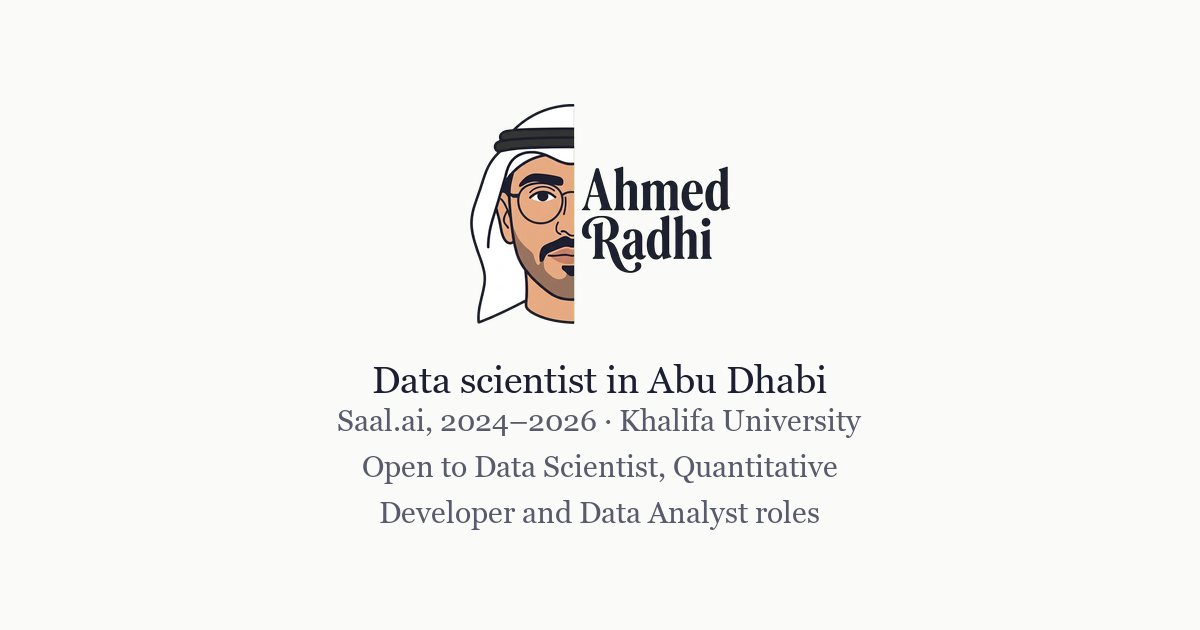
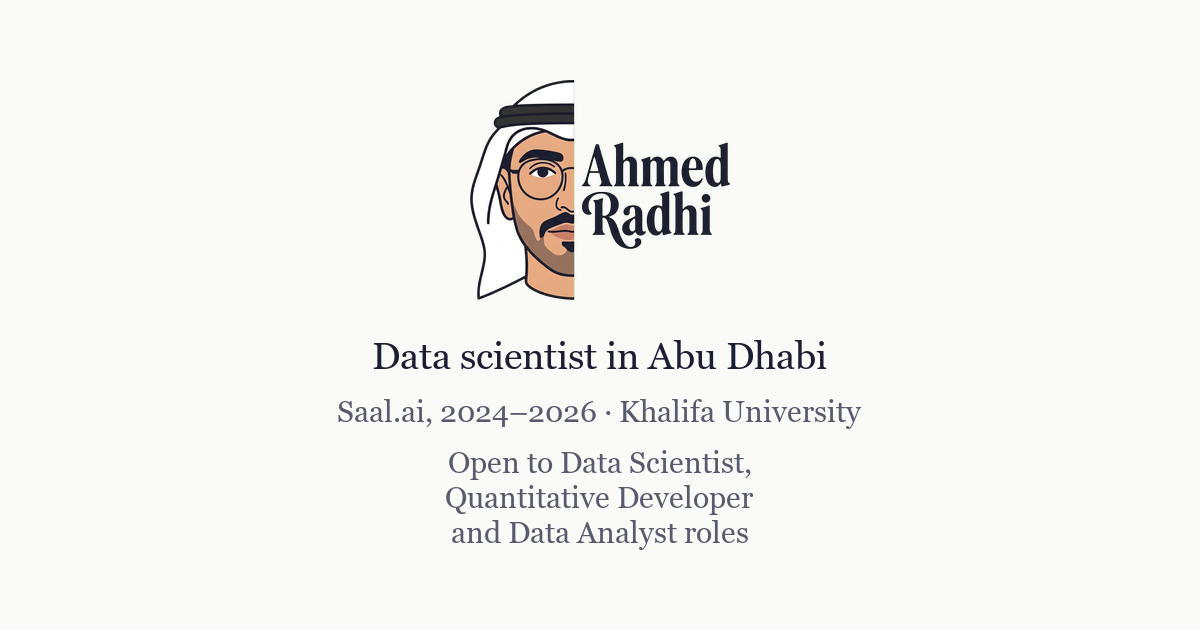
fix(share-card): stop breaking a role name across lines, and gate before saving
The greedy wrap filled the first line to the crop budget, which split the
card's most valuable sentence as "Open to Data Scientist, Quantitative /
Developer and Data Analyst roles". The card ships at a dated, hard-cached URL,
so that break was expensive to leave.

The wrap is now a small search rather than a greedy pass. A line may not end
between two capitalised words, because that pair is a name — "Quantitative
Developer", "Data Analyst" — and punctuation closes a name, so "Scientist,"
may end a line. Subject to that it takes the fewest lines the text fits in,
and among those the arrangement whose widest line is narrowest, because the
block is centred and even lines read as one set. Here that is 304 / 309 / 298
against a 550px budget, verified by cropping the PNG to the 630px square that
WhatsApp and iMessage show.

Leading came from each line's inked height, so the gap between two lines
depended on whether one of them happened to contain a descender. It now comes
from the font's line box, and the gap between card lines is separate from the
leading inside a wrapped one — a single constant made a wrapped sentence look
like three unrelated statements.

Both gates now run before anything is written. A run that judged the card
unshippable had already saved it twice with a matching sidecar, so the suite
went green on a card the generator had just condemned. Nothing checked the
vertical fit at all; a taller block now fails instead of drawing off both
edges.
[…]

Changed region(s): [[0.37, 0.1206, 0.6167, 0.5127], [0.2775, 0.5429, 0.7092, 0.6937], [0.2775, 0.7238, 0.7092, 0.8746]]

diff --git a/test/og-card.test.js b/test/og-card.test.js
@@ -28,11 +28,16 @@ const generator = read('tools/make_og_image.py');
 function expectedLines() {
   const company = experience.items[0].company;
   const roles = experience.items[0].roles;
+  const dated = (r) => /^\d{4}$/.test(r.endDate.slice(0, 4));
   const years = [...new Set([
     ...roles.map((r) => r.startDate.slice(0, 4)),
-    ...roles.map((r) => r.endDate.slice(0, 4)).filter((y) => /^\d{4}$/.test(y)),
+    ...roles.filter(dated).map((r) => r.endDate.slice(0, 4)),
   ])].sort();
-  const tenure = years.length > 1 ? `${years[0]}–${years[years.length - 1]}` : years[0];
+  // admin/schema.js advertises "Present" as a valid endDate. Without this the
+  // generator drew "Saal.ai, 2024" and this mirror agreed with it, so a card
+  // describing a year-long job would have passed.
+  const end = roles.every(dated) ? years[years.length - 1] : 'present';
+  const tenure = end === years[0] ? years[0] : `${years[0]}–${end}`;
   return [
     profile.role,
     `${company}, ${tenure} · ${education.items[0].institution}`,
@@ -54,7 +59,9 @@ test('every line the card draws says something checkable', () => {
   // The card used to read "Data pipelines, analysis, applied statistics" — three
   // capability nouns that would fit any data-science graduate, which is what
   // CLAUDE.md's fourth principle forbids.
-  assert.match(credentials, /\d{4}–\d{4}/, 'no date range on the card');
+  // A range, not a year: /\d{4}(–\d{4})?/ would have been satisfied by the
+  // bare "2024" the open-ended branch used to produce.
+  assert.match(credentials, /\d{4}–(\d{4}|present)/, 'no date range on the card');
   assert.ok(credentials.includes(education.items[0].institution), 'no institution on the card');
   assert.match(ask, /^Open to /, 'the card does not state what he is looking for');
   assert.ok(role.length > 0);
@@ -85,10 +92,43 @@ test('og:image and twitter:image agree, and both carry alt text', () => {
     const m = html.match(new RegExp(`<meta ${attr}="${name}" content="([^"]*)"`));
     assert.ok(m, `${name} is missing`);
     // Alt that restates og:title and og:description is worse than none for a
-    // screen-reader user, so it has to carry what the picture carries.
-    assert.ok(m[1].includes(experience.items[0].company), `${name} omits the employer the card shows`);
-    assert.ok(m[1].length > 60, `${name} is too thin to describe the card`);
+    // screen-reader user, so it has to carry what the picture carries. Checked
+    // line by line, not against the sidecar verbatim: the alt deliberately
+    // voices "2024 to 2026, and" where the card draws "2024–2026 ·". Without
+    // these three, a copy edit plus a regeneration left the alt describing the
+    // previous card with the whole suite green.
+    const alt = m[1];
+    assert.ok(alt.includes(experience.items[0].company), `${name} omits the employer the card shows`);
+    assert.ok(alt.includes(education.items[0].institution), `${name} omits the institution`);
+    assert.ok(alt.includes(profile.role), `${name} no longer says what the card says he is`);
+    assert.ok(alt.includes(profile.status.replace(/\.$/, '')), `${name} no longer carries the ask`);
+    assert.ok(alt.length > 60, `${name} is too thin to describe the card`);
   }
+});
+
+test('the shipped card is a real 1200x630 image, not a placeholder', () => {
+  // Everything above reads text. Two zero-byte PNGs passed the whole file, so
+  // nothing bound the tags to the picture they describe. The IHDR is four bytes
+  // of proof that a card was drawn at the size the meta tags promise.
+  const declared = (name) => Number(
+    html.match(new RegExp(`<meta property="${name}" content="(\\d+)"`))[1],
+  );
+  const buf = readFileSync(file('assets/og-image.png'));
+  assert.equal(buf.subarray(1, 4).toString('ascii'), 'PNG', 'the card is not a PNG');
+  assert.equal(buf.readUInt32BE(16), declared('og:image:width'), 'the card is not as wide as og:image:width claims');
+  assert.equal(buf.readUInt32BE(20), declared('og:image:height'), 'the card is not as tall as og:image:height claims');
+});
+
+test('the meta tags point at the filename the generator writes', () => {
+  // CARD_NAME is a frozen literal and og:image matches any og-image-*.png, so
+  // a bump in one and not the other produced "the legacy card is stale — rerun
+  // the generator", which is the wrong instruction for the actual fault.
+  const name = generator.match(/CARD_NAME = "([^"]+)"/);
+  assert.ok(name, 'the generator no longer names its output file');
+  assert.ok(
+    html.includes(`/assets/${name[1]}"`),
+    `the generator writes assets/${name[1]}, which index.html does not reference`,
+  );
 });
 
 test('the generator refuses a bitmap fallback instead of reporting success', () => {

diff --git a/tools/make_og_image.py b/tools/make_og_image.py
@@ -8,7 +8,7 @@ This is the first surface most readers see. PRODUCT.md says they arrive
 the image, og:title and the domain, then discards og:description entirely. So
 for the primary channel this PNG plus a dozen words of title IS the portfolio.
 
-Two rules follow from that, and both are load-bearing:
+Three rules follow from that, and all three are load-bearing:
 
 1. Every line has to say something checkable. The card used to read "Data
    scientist in Abu Dhabi" over "Data pipelines, analysis, applied statistics":
@@ -20,6 +20,10 @@ Two rules follow from that, and both are load-bearing:
    previews crop to a 630x630 square (x=285..915), so anything wider than about
    550px measured gets its ends cut off. The first draft anchored the block hard
    left and that crop removed the face entirely.
+
+3. Nothing ships that the run itself judged broken. The overflow check runs
+   before the PNGs are written, not after, so a card that fails the crop budget
+   leaves no file behind for the test suite to bless.
 
 The strings are read from data/*.json rather than held here, because a literal
 in a generator is content living in code, which the project's first convention
@@ -44,7 +48,8 @@ MUTED = (88, 91, 107)
 # same path stays invisible on every link already shared. The legacy path is
 # rewritten with the same bytes in the same run, so old shares improve too as
 # their caches expire, rather than being left on a card that no longer matches
-# the page.
+# the page. test/og-card.test.js reads this name back out of this file and
+# asserts index.html points at it, so the two cannot drift.
 CARD_NAME = "og-image-2026-09.png"
 LEGACY_CARD_NAME = "og-image.png"
 
@@ -56,6 +61,12 @@ CROP_SAFE_WIDTH = 550  # the 630px centre crop, less a little breathing room
 # wide logotype, so its width buys height fast.
 WORDMARK_WIDTH = 260
 GAP_AFTER_WORDMARK = 34
+
+# Two gaps, because they do two different jobs. Continuation lines of one
+# wrapped sentence are spaced by the font's own line height and nothing else,
+# so they read as one sentence; this gap is added only where a new card line
+# begins. A single constant served both for a while, which made the wrapped
+# availability line look like a list of unrelated statements.
 GAP_BETWEEN_LINES = 16
 
 # Georgia ships with Windows and is a reasonable stand-in for the site's Source
@@ -95,9 +106,10 @@ def load(name):
 def card_lines():
     """The three lines, derived from the content files.
 
-    Returns a list of (text, font_size, colour) plus the sidecar record. The
-    employer line ages correctly on its own: it is a closed date range, so it
-    stays true after the contract ends without anyone editing anything.
+    Returns a list of (text, font_size, colour). The employer line ages
+    correctly on its own: while the range is closed it stays true after the
+    contract ends without anyone editing anything, and an open role prints as
+    a range ending in "present" rather than as a bare year.
     """
     profile = load("profile")
     experience = load("experience")
@@ -108,7 +120,12 @@ def card_lines():
     years = sorted({r["startDate"][:4] for r in roles} | {
         r["endDate"][:4] for r in roles if r["endDate"][:4].isdigit()
     })
-    tenure = f"{years[0]}\u2013{years[-1]}" if len(years) > 1 else years[0]
+    # admin/schema.js advertises "Present" as a valid endDate, and an open role
+    # is the ordinary state for the person this card is for. Without this the
+    # card drew "Saal.ai, 2024", which reads as a job that lasted a year.
+    open_ended = any(not r["endDate"][:4].isdigit() for r in roles)
+    end = "present" if open_ended else years[-1]
+    tenure = f"{years[0]}\u2013{end}" if end != years[0] else years[0]
     institution = education["items"][0]["institution"]
 
     return [
@@ -116,6 +133,79 @@ def card_lines():
         (f"{company}, {tenure} \u00b7 {institution}", 30, MUTED),
         (profile["status"].rstrip("."), 30, MUTED),
     ]
+
+
+def wrap(text, width_of, budget):
+    """Break one card line into the fewest, most even lines it can be.
+
+    Deliberately not a greedy wrap. Greedy fills the first line to the budget,
+    which here broke "Open to Data Scientist, Quantitative / Developer and Data
+    Analyst roles" — splitting a role name across lines, so the card's most
+    valuable sentence read as a layout accident.
+
+    Two rules replace it. A line may not end between two capitalised words,
+    because that pair is a name: "Quantitative Developer", "Data Analyst".
+    Punctuation closes a name, so "Scientist," may end a line. Subject to that,
+    take the fewest lines the text fits in, and among those the arrangement
+    whose widest line is narrowest: the block is centred, and even lines read as
+    one set where ragged ones read as an accident.
+    """
+    words = text.split()
+    n = len(words)
+    if not n:
+        return []
+
+    def width(i, j):
+        return width_of(" ".join(words[i:j]))
+
+    def may_end_at(j):
+        if j >= n:
+            return True
+        prev, nxt = words[j - 1], words[j]
+        return not (prev[:1].isupper() and nxt[:1].isupper() and prev[-1:].isalnum())
+
+    def arrange(count):
+        """Widest line of the best split of words[i:] into k lines, or None."""
+        memo = {}
+
+        def best(i, k):
+            if k == 0:
+                return (0, None) if i == n else (None, None)
+            if (i, k) not in memo:
+                found = (None, None)
+                for j in range(i + 1, n + 1):
+                    w = width(i, j)
+                    # A single word wider than the budget is allowed to stand
+                    # alone: nothing can be done about it, and refusing to
+                    # place it would wedge the wrap. main() still refuses to
+                    # ship the card.
+                    if w > budget and j > i + 1:
+                        break
+                    if not may_end_at(j):
+                        continue
+                    rest, _ = best(j, k - 1)
+                    if rest is None:
+                        continue
+                    widest = max(w, rest)
+                    if found[0] is None or widest < found[0]:
+                        found = (widest, j)
+                memo[(i, k)] = found
+            return memo[(i, k)]
+
+        if best(0, count)[0] is None:
+            return None
+        lines, i, k = [], 0, count
+        while k:
+            j = best(i, k)[1]
+            lines.append(" ".join(words[i:j]))
+            i, k = j, k - 1
+        return lines
+
+    for count in range(1, n + 1):
+        lines = arrange(count)
+        if lines:
+            return lines
+    return [text]  # unreachable: one word per line is always a valid split
 
 
 def main():
@@ -126,59 +216,62 @@ def main():
     scale = WORDMARK_WIDTH / wordmark.width
     wordmark = wordmark.resize((WORDMARK_WIDTH, round(wordmark.height * scale)), Image.LANCZOS)
 
-    def width_of(text, font):
+    def measure(text, font):
+        """Left bearing and inked width. Not bbox[2], which includes the
+        bearing and so shifted every centred line by a pixel or two."""
         box = draw.textbbox((0, 0), text, font=font)
-        # bbox[2] - bbox[0], not bbox[2]: the left bearing is not part of the
-        # drawn width, and treating it as such shifted every centred line.
-        return box[2] - box[0], box[3] - box[1]
+        return box[0], box[2] - box[0]
 
-    def wrap(text, font):
-        """Greedy wrap to the crop budget.
-
-        The availability line is the longest thing on the card and the one least
-        worth shortening — it names the three roles he actually wants, and
-        trimming it to fit would trade the specificity for the layout. Wrapping
-        keeps the copy exact and spends vertical room the card has.
-        """
-        words, lines, current = text.split(), [], ''
-        for word in words:
-            candidate = f'{current} {word}'.strip()
-            if current and width_of(candidate, font)[0] > CROP_SAFE_WIDTH:
-                lines.append(current)
-                current = word
-            else:
-                current = candidate
-        if current:
-            lines.append(current)
-        return lines
-
-    lines = card_lines()
-    measured = []
-    for text, size, colour in lines:
+    rows = []
+    for text, size, colour in card_lines():
         font = load_font(size)
-        for piece in wrap(text, font):
-            w, h = width_of(piece, font)
-            measured.append((piece, font, colour, w, h))
+        ascent, descent = font.getmetrics()
+        # The font's line box, not the inked height of these particular glyphs.
+        # Stepping by the ink height made the leading depend on whether a line
+        # happened to contain a descender.
+        line_h = ascent + descent
+        pieces = wrap(text, lambda t, f=font: measure(t, f)[1], CROP_SAFE_WIDTH)
+        for i, piece in enumerate(pieces):
+            bearing, ink_w = measure(piece, font)
+            rows.append((piece, font, colour, bearing, ink_w, line_h, i == 0))
 
     content_h = wordmark.height + GAP_AFTER_WORDMARK + sum(
-        h + (GAP_BETWEEN_LINES if i else 0) for i, (_, _, _, _, h) in enumerate(measured)
+        line_h + (GAP_BETWEEN_LINES if i and starts else 0)
+        for i, (_, _, _, _, _, line_h, starts) in enumerate(rows)
     )
     top = (SIZE[1] - content_h) // 2
 
-    # Each element centred on its own width, not on the widest one: centring the
-    # block and left-aligning inside it put the smallest, greyest line dead
-    # centre while the wordmark sat 59px off the midline.
+    print(f"{CARD_NAME}  {SIZE}  top-margin={top}px")
+    for text, _, _, _, ink_w, _, _ in rows:
+        print(f"  {ink_w:4}px  {text}")
+
+    # Both gates run before anything is written. A run that judges the card
+    # unshippable used to have already saved it twice, with a matching sidecar,
+    # so `npm test` went green on a card the generator had just condemned.
+    overflow = [f"{ink_w}px  {text}" for text, _, _, _, ink_w, _, _ in rows if ink_w > CROP_SAFE_WIDTH]
+    if overflow:
+        raise SystemExit(
+            f"\n{len(overflow)} line(s) exceed the {CROP_SAFE_WIDTH}px centre-crop budget "
+            "and would be cut off in a WhatsApp or iMessage preview:\n  "
+            + "\n  ".join(overflow)
+        )
+    if top < 0:
+        raise SystemExit(
+            f"\nThe block is {-2 * top}px taller than the card. Nothing checked this "
+            "before, so a longer status line would have silently drawn off both edges."
+        )
+
+    # Each element centred on its own inked width, not on the widest one:
+    # centring the block and left-aligning inside it put the smallest, greyest
+    # line dead centre while the wordmark sat 59px off the midline.
     card.paste(wordmark, ((SIZE[0] - wordmark.width) // 2, top), wordmark)
 
     y = top + wordmark.height + GAP_AFTER_WORDMARK
-    overflow = []
-    for i, (text, font, colour, w, h) in enumerate(measured):
-        if i:
+    for i, (text, font, colour, bearing, ink_w, line_h, starts) in enumerate(rows):
+        if i and starts:
             y += GAP_BETWEEN_LINES
-        draw.text(((SIZE[0] - w) // 2, y), text, font=font, fill=colour)
-        if w > CROP_SAFE_WIDTH:
-            overflow.append(f"{w}px  {text}")
-        y += h
+        draw.text(((SIZE[0] - ink_w) // 2 - bearing, y), text, font=font, fill=colour)
+        y += line_h
 
     out = ROOT / "assets" / CARD_NAME
     card.save(out, "PNG", optimize=True)
@@ -186,21 +279,14 @@ def main():
 
     # The sidecar is what test/og-card.test.js compares against data/*.json, so
     # a copy edit that never regenerated the card fails the suite instead of
-    # shipping a stale picture with a green build.
+    # shipping a stale picture with a green build. It records the card lines as
+    # authored, not as wrapped: the wrap is layout, the text is content.
     sidecar = ROOT / "assets" / "og-image.json"
     with open(sidecar, "w", encoding="utf-8", newline="\n") as f:
-        json.dump({"lines": [t for t, _, _ in lines]}, f, ensure_ascii=False, indent=2)
+        json.dump({"lines": [t for t, _, _ in card_lines()]}, f, ensure_ascii=False, indent=2)
         f.write("\n")
 
-    print(f"{out.name}  {card.size}  {out.stat().st_size // 1024}KB  top-margin={top}px")
-    for text, _, _, w, _ in measured:
-        print(f"  {w:4}px  {text}")
-    if overflow:
-        raise SystemExit(
-            f"\n{len(overflow)} line(s) exceed the {CROP_SAFE_WIDTH}px centre-crop budget "
-            "and would be cut off in a WhatsApp or iMessage preview:\n  "
-            + "\n  ".join(overflow)
-        )
+    print(f"wrote {out.name} and {LEGACY_CARD_NAME}  {out.stat().st_size // 1024}KB")
 
 
 if __name__ == "__main__":
